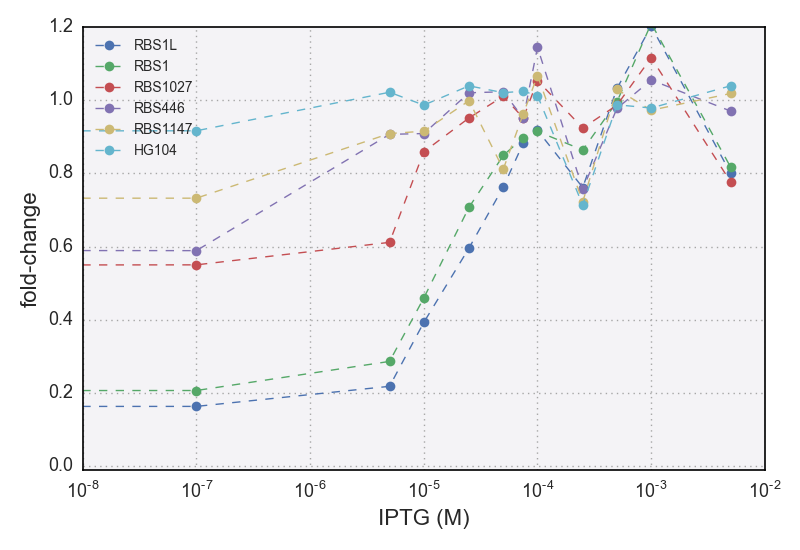
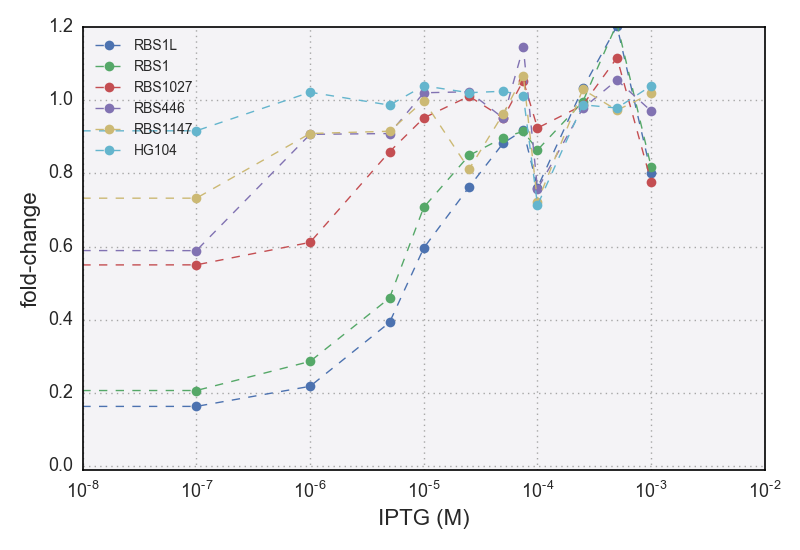
re-analysis of 20160831r2 - corrected concentration range - looks more like r1 now

diff --git a/code/processing/20160831_r2_O3_IPTG_titration/processing.py b/code/processing/20160831_r2_O3_IPTG_titration/processing.py
@@ -49,7 +49,7 @@ files = files[np.array(csv_bool)]
 rbs = np.array(['auto', 'delta', 'RBS1L', 'RBS1', 'RBS1027', 'RBS446', 'RBS1147', 'HG104'])
 repressors = np.array([0, 0, 870, 610, 130, 62, 30, 11])
 
-concentrations = [0, 0.1, 5, 10, 25, 50, 75, 100, 250, 500, 1000, 5000] # uM IPTG
+concentrations = [0, 0.1, 1, 5, 10, 25, 50, 75, 100, 250, 500, 1000] # uM IPTG
 
 #=============================================================================== 
 # define the parameter alpha for the automatic gating
